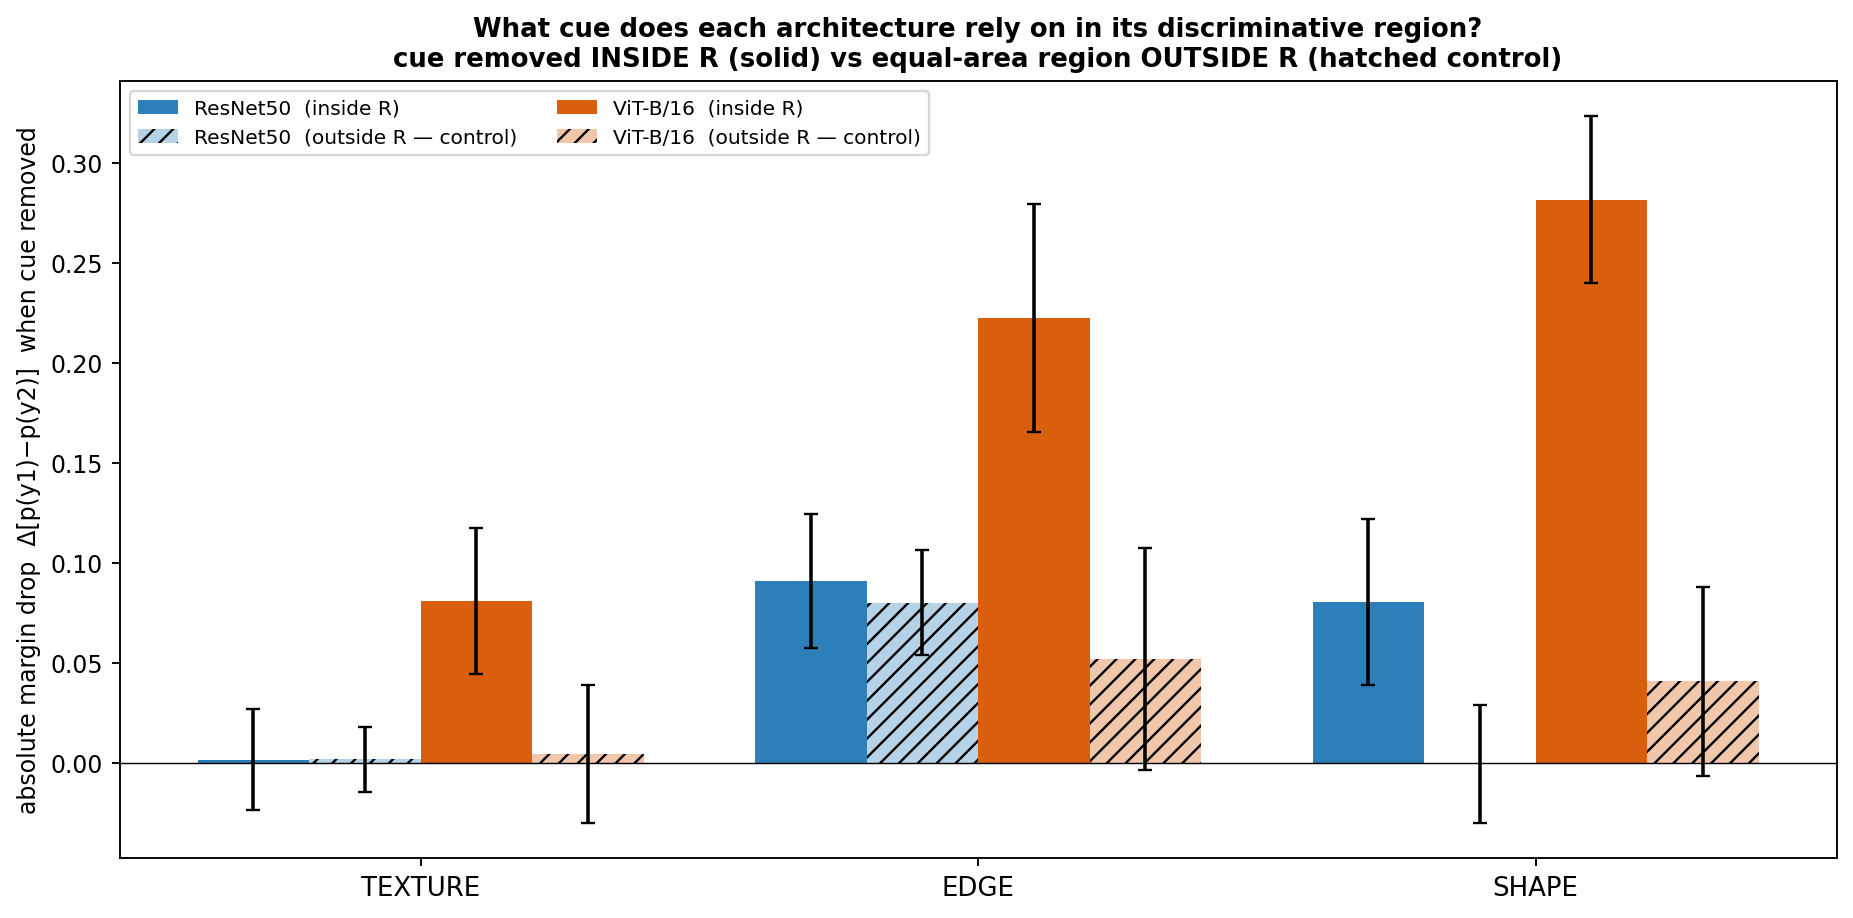
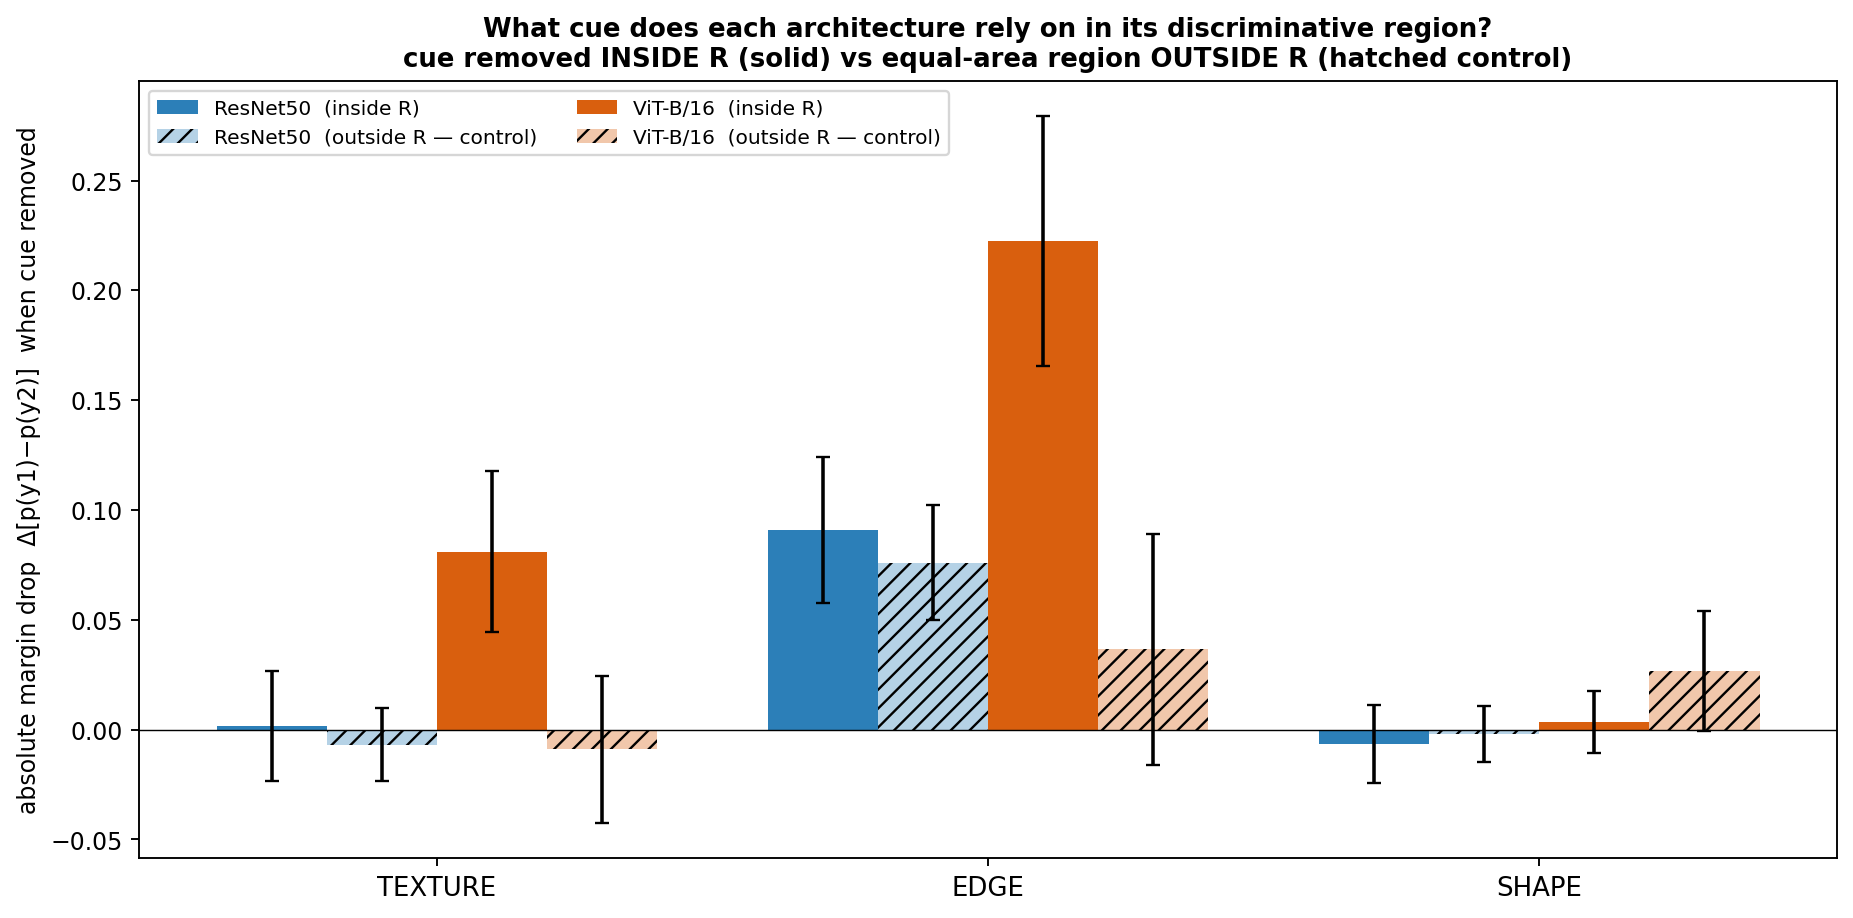
Replace tile-shuffle with smooth elastic warp in feature-type shape ablation
Mandatory fix: tile-shuffle injects seam edges (cue leakage, unfair to ViT).
smooth_warp distorts geometry without new edges. Regenerated probe table
(n=50) and example viz. Shape effects drop to ~0 for both archs; ViT edge
+0.22 / texture +0.08 are R-specific, ResNet edge mostly non-specific.

diff --git a/infocube-main/feature_type_probe.py b/infocube-main/feature_type_probe.py
@@ -13,7 +13,7 @@ import sys, pickle, warnings
 try: sys.stdout.reconfigure(encoding='utf-8', errors='replace')
 except Exception: pass
 import numpy as np, torch, torch.nn.functional as F
-from scipy.ndimage import gaussian_filter, median_filter
+from scipy.ndimage import gaussian_filter, median_filter, map_coordinates
 warnings.filterwarnings('ignore')
 N = int(sys.argv[1]) if len(sys.argv) > 1 else 50
 EPS = 1e-8; DEVICE = torch.device('cuda' if torch.cuda.is_available() else 'cpu')
@@ -59,15 +59,16 @@ def out_region(disc, labs, seg, area):                         # equal-area NON-
     return M
 
 # ── cue-specific perturbations (numpy, C,H,W) ──
-def grid_shuffle(a, tile=28):
-    C, H, W = a.shape; nh, nw = H // tile, W // tile
-    t = a[:, :nh*tile, :nw*tile].reshape(C, nh, tile, nw, tile).transpose(0, 1, 3, 2, 4).reshape(C, nh*nw, tile, tile)
-    t = t[:, rng.permutation(nh*nw)]
-    return t.reshape(C, nh, nw, tile, tile).transpose(0, 1, 3, 2, 4).reshape(C, nh*tile, nw*tile)
+def smooth_warp(a, strength=15, sigma=8):
+    C, H, W = a.shape; yy, xx = np.mgrid[0:H, 0:W]
+    dx = gaussian_filter(rng.standard_normal((H, W)), sigma) * strength
+    dy = gaussian_filter(rng.standard_normal((H, W)), sigma) * strength
+    crd = [np.clip(yy + dy, 0, H - 1), np.clip(xx + dx, 0, W - 1)]
+    return np.stack([map_coordinates(a[c], crd, order=1, mode='reflect') for c in range(C)])
 def perturbed(a, kind):
     if kind == 'texture': return median_filter(a, size=(1, 5, 5))   # removes fine texture, KEEPS edges/shape
     if kind == 'edge':    return gaussian_filter(a, sigma=(0, 4, 4)) # removes edges, keeps coarse shape/colour
-    if kind == 'shape':   return grid_shuffle(a, 28)                 # destroys global shape, keeps local texture
+    if kind == 'shape':   return smooth_warp(a)                      # elastic warp: distorts shape, injects NO edges
 def apply_in(a, M, kind):
     p = perturbed(a, kind); m = M.astype(float)[None]
     return a * (1 - m) + p * m

diff --git a/infocube-main/feature_type_grid.py b/infocube-main/feature_type_grid.py
@@ -9,7 +9,7 @@ try: sys.stdout.reconfigure(encoding='utf-8', errors='replace')
 except Exception: pass
 import numpy as np, torch, torch.nn.functional as F, matplotlib
 matplotlib.use('Agg'); import matplotlib.pyplot as plt
-from scipy.ndimage import gaussian_filter, median_filter
+from scipy.ndimage import gaussian_filter, median_filter, map_coordinates
 warnings.filterwarnings('ignore')
 K = int(sys.argv[1]) if len(sys.argv) > 1 else 5
 EPS = 1e-8; DEVICE = torch.device('cuda' if torch.cuda.is_available() else 'cpu')
@@ -36,15 +36,16 @@ def disc(m, x, a, b, seg, labs, chunk=24):
         d[s:s+p.shape[0]] = np.abs((b1 - p[:, a].cpu().numpy()) - (b2 - p[:, b].cpu().numpy()))
     dd = d >= np.quantile(d, 0.75) if np.ptp(d) > EPS else np.zeros(len(d), bool)
     return np.isin(seg, labs[dd])
-def grid_shuffle(a, tile=28):
-    C, H, W = a.shape; nh, nw = H//tile, W//tile
-    t = a[:, :nh*tile, :nw*tile].reshape(C, nh, tile, nw, tile).transpose(0,1,3,2,4).reshape(C, nh*nw, tile, tile)
-    t = t[:, rng.permutation(nh*nw)]
-    return t.reshape(C, nh, nw, tile, tile).transpose(0,1,3,2,4).reshape(C, nh*tile, nw*tile)
+def smooth_warp(a, strength=15, sigma=8):
+    C, H, W = a.shape; yy, xx = np.mgrid[0:H, 0:W]
+    dx = gaussian_filter(rng.standard_normal((H, W)), sigma) * strength
+    dy = gaussian_filter(rng.standard_normal((H, W)), sigma) * strength
+    crd = [np.clip(yy + dy, 0, H - 1), np.clip(xx + dx, 0, W - 1)]
+    return np.stack([map_coordinates(a[c], crd, order=1, mode='reflect') for c in range(C)])
 def perturbed(a, kind):
     if kind == 'texture': return median_filter(a, size=(1, 5, 5))
     if kind == 'edge':    return gaussian_filter(a, sigma=(0, 4, 4))
-    if kind == 'shape':   return grid_shuffle(a, 28)
+    if kind == 'shape':   return smooth_warp(a)
 def apply_in(a, M, kind):
     p = perturbed(a, kind); m = M.astype(float)[None]; return a*(1-m) + p*m
 def denorm(a):

diff --git a/infocube-main/feature_type_viz.py b/infocube-main/feature_type_viz.py
@@ -9,7 +9,7 @@ try: sys.stdout.reconfigure(encoding='utf-8', errors='replace')
 except Exception: pass
 import numpy as np, torch, torch.nn.functional as F, matplotlib
 matplotlib.use('Agg'); import matplotlib.pyplot as plt
-from scipy.ndimage import gaussian_filter, median_filter
+from scipy.ndimage import gaussian_filter, median_filter, map_coordinates
 warnings.filterwarnings('ignore')
 K = int(sys.argv[1]) if len(sys.argv) > 1 else 4
 EPS = 1e-8; DEVICE = torch.device('cuda' if torch.cuda.is_available() else 'cpu')
@@ -45,15 +45,16 @@ def out_region(dd, labs, seg, area):
         M |= (seg == l)
         if M.sum() >= area: break
     return M
-def grid_shuffle(a, tile=28):
-    C, H, W = a.shape; nh, nw = H//tile, W//tile
-    t = a[:, :nh*tile, :nw*tile].reshape(C, nh, tile, nw, tile).transpose(0,1,3,2,4).reshape(C, nh*nw, tile, tile)
-    t = t[:, rng.permutation(nh*nw)]
-    return t.reshape(C, nh, nw, tile, tile).transpose(0,1,3,2,4).reshape(C, nh*tile, nw*tile)
+def smooth_warp(a, strength=15, sigma=8):
+    C, H, W = a.shape; yy, xx = np.mgrid[0:H, 0:W]
+    dx = gaussian_filter(rng.standard_normal((H, W)), sigma) * strength
+    dy = gaussian_filter(rng.standard_normal((H, W)), sigma) * strength
+    crd = [np.clip(yy + dy, 0, H - 1), np.clip(xx + dx, 0, W - 1)]
+    return np.stack([map_coordinates(a[c], crd, order=1, mode='reflect') for c in range(C)])
 def perturbed(a, kind):
     if kind == 'texture': return median_filter(a, size=(1, 5, 5))
     if kind == 'edge':    return gaussian_filter(a, sigma=(0, 4, 4))
-    if kind == 'shape':   return grid_shuffle(a, 28)
+    if kind == 'shape':   return smooth_warp(a)
 def apply_in(a, M, kind):
     p = perturbed(a, kind); m = M.astype(float)[None]; return a * (1 - m) + p * m
 def denorm(a):
